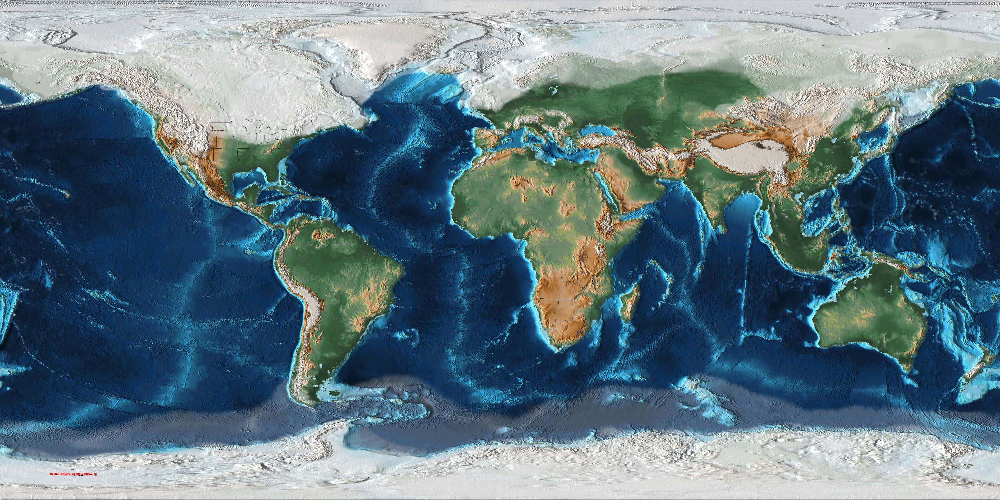
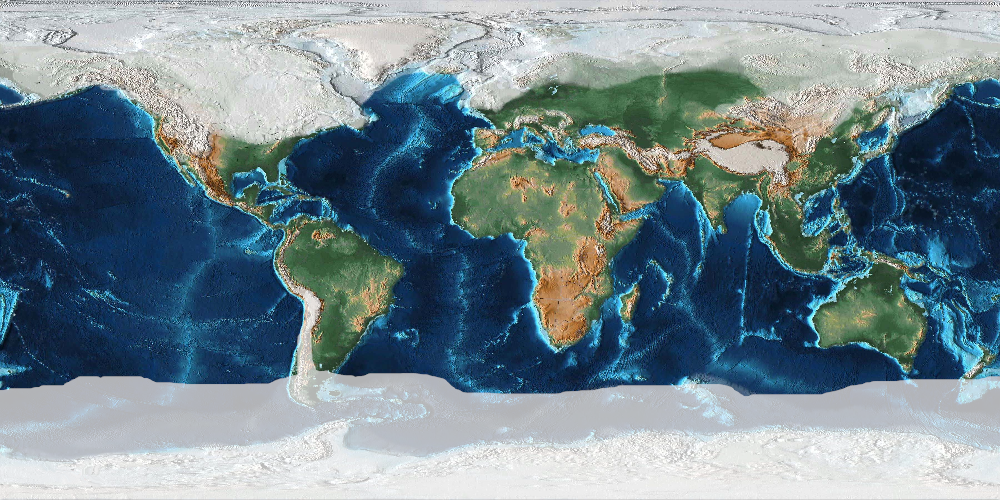
Carte de nuit, textures réelles, Karoo — point de sauvegarde avant refonte API/rendu
Travail en cours regroupé avant de commencer à déplacer des fichiers entre les deux dépôts.

Carte de nuit (🌙)
- alphabet : CHARS.NIGHTMAP '🌙' + description ; 🖼 devient « suite d'images » et non plus texture d'état.
- organigramme v1.0.116 : la carte de nuit est posée en emissiveMap avec un masque injecté dans le
  shader (smoothstep sur N·L) — jour et nuit affichés EN MÊME TEMPS, la nuit seulement côté ombre.
- fonds/_002000n.png ajouté, et au deploy.

Textures
- organigramme v1.0.115 + configOrganigramme v1.1.49 : TEXTURE_DATES_MA / _YEAR alignées sur les
  fichiers réellement présents dans fonds/. La texture affichée est la déclarée la plus proche de la
  date, donc plus de 404 sur un fichier inexistant. Images inutilisées retirées, deux recompressées.

Divers
- test_milankovitch v1.0.2 : footer et signature retirés (la page est en iframe, index.html a le sien).
- organigramme : détail albédo du Corps noir — surfaces optiques réelles (🪩) au lieu de la partition
  du stock d'eau, albédo de glace effectif, et la ligne « couche d'eau » du facteur corps-noir, sans
  quoi le détail affiché ne pouvait pas reproduire le badge.

Changed region(s): [[0.0, 0.6, 1.0, 1.0], [0.186, 0.24, 0.31, 0.33]]

diff --git a/organigramme/organigramme.js b/organigramme/organigramme.js
@@ -1,12 +1,14 @@
 // File: organigramme/organigramme.js - Génération automatique du diagramme de flux énergétique
 // Desc: Module JavaScript pour créer automatiquement un diagramme de flux énergétique à partir d'un graphe (nœuds et arcs)
-// Version 1.0.114
+// Version 1.0.116
 // © 2025 DNAvatar.org - Arnaud Maignan
 // Licensed under Apache License 2.0 with Commons Clause.
 // See https://commonsclause.com/ for full terms.
 // ¬Ā (/nʌl nʌl eɪ/) (/nɔ̃ a ma.kʁɔ̃/) : ¬¬Aristotelicisme via UTF8.
 // "La carte c'est le territoire, le territoire c'est le code."
 // UTF8 est la sémantique pour CODE & UI
+// Logs: v1.0.116 carte de nuit (📜🌙) en emissiveMap + masque shader (smoothstep sur N·L) : jour et nuit affichés EN MÊME TEMPS, la nuit seulement côté ombre.
+// Logs: v1.0.115 getPlanetTexturePathFromEpoch — texture DÉCLARÉE la plus proche de la date (plus de 404 sur un fichier inexistant) ; signe corrigé pour les époques géologiques.
 // Logs: v1.0.114 getPlanetTexturePathFromEpoch — texture d'ÉTAT (📜🖼, posée par 🕰.🔁) prioritaire sur la date.
 // Logs: v1.0.113 addCustomTooltip — data-alt2sec depuis window.EPOCH_ALT2SEC[data-epoch] (ex. Sturtienne / hysteresis 1a).
 // Logs: v1.0.112 getFineTuningDetailAlt — retrait suffixe #biblio_ref dans les lignes alt2sec.
@@ -626,6 +628,143 @@ function resolveFondsTextureUrlForLoader(path) {
 }
 
 /**
+ * MÉLANGE JOUR / NUIT (📜🌙, posé par la config 🕰.'🌙').
+ * La carte de nuit (lumières des villes) doit apparaître UNIQUEMENT sur la face non éclairée, en même temps
+ * que le jour — pas en alternance. On garde le MeshStandardMaterial (éclairage, ombres, cônes d'axe) et on
+ * pose la nuit en emissiveMap, masquée par l'orientation vers le Soleil via un patch de shader :
+ *   nuit = 1 quand la normale tourne le dos à la lumière, 0 en plein jour, dégradé doux au terminateur.
+ * Aucun matériau ni pipeline custom : la même sphère, une injection de quelques lignes.
+ */
+const _nightTextureCache = {};
+function loadNightTexture(path, onReady) {
+  if (_nightTextureCache[path]) { onReady(_nightTextureCache[path]); return; }
+  new THREE.TextureLoader().load(
+    resolveFondsTextureUrlForLoader(path),
+    function (tex) {
+      tex.wrapS = THREE.RepeatWrapping;
+      tex.wrapT = THREE.ClampToEdgeWrapping;
+      if (THREE.SRGBColorSpace) tex.colorSpace = THREE.SRGBColorSpace;
+      _nightTextureCache[path] = tex;
+      onReady(tex);
+    },
+    undefined,
+    function () { console.log("🌙 [texture nuit] chargement erreur:", path); }
+  );
+}
+
+/** Direction du Soleil (monde) pour le masque de nuit : position de la lumière directionnelle, normalisée. */
+function planetSunDirection(canvasData) {
+  const light = canvasData && canvasData.directionalLight;
+  const v = light && light.position
+    ? light.position.clone()
+    : new THREE.Vector3(1, 0, 1);
+  if (v.lengthSq() === 0) v.set(1, 0, 1);
+  return v.normalize();
+}
+
+/** Injecte le masque de nuit dans le shader standard (une fois par matériau). */
+function patchMaterialForNightMap(material, sunDir) {
+  if (material.userData.nightPatched) {
+    material.userData.sunDirUniform.value.copy(sunDir);
+    return;
+  }
+  material.userData.sunDirUniform = { value: sunDir.clone() };
+  material.onBeforeCompile = function (shader) {
+    shader.uniforms.uSunDirNight = material.userData.sunDirUniform;
+    shader.vertexShader = shader.vertexShader
+      .replace("#include <common>", "#include <common>\nvarying vec3 vWorldNormalNight;")
+      .replace(
+        "#include <begin_vertex>",
+        "#include <begin_vertex>\nvWorldNormalNight = normalize(mat3(modelMatrix) * objectNormal);"
+      );
+    shader.fragmentShader = shader.fragmentShader
+      .replace(
+        "#include <common>",
+        "#include <common>\nuniform vec3 uSunDirNight;\nvarying vec3 vWorldNormalNight;\nfloat nightMaskDN;"
+      )
+      // Masque calculé une fois : 1 côté nuit, 0 en plein jour, dégradé au terminateur.
+      // La carte de JOUR est assombrie côté nuit (sinon la lumière ambiante la laisse dominer et les
+      // lumières des villes ne ressortent pas) ; la carte de NUIT n'est émise que côté nuit.
+      .replace(
+        "#include <map_fragment>",
+        "#include <map_fragment>\n"
+        + "nightMaskDN = smoothstep(0.12, -0.18, dot(normalize(vWorldNormalNight), normalize(uSunDirNight)));\n"
+        + "diffuseColor.rgb *= mix(1.0, 0.15, nightMaskDN);"
+      )
+      .replace(
+        "#include <emissivemap_fragment>",
+        "#include <emissivemap_fragment>\ntotalEmissiveRadiance *= nightMaskDN;"
+      );
+  };
+  material.userData.nightPatched = true;
+  material.needsUpdate = true;
+}
+
+/**
+ * Applique (ou retire) la carte de nuit sur la sphère, selon 📜🌙. Appelée à la création de la sphère
+ * et à chaque mise à jour de texture — y compris quand la texture de jour ne change pas.
+ */
+function syncPlanetNightMap(sphere, canvasData) {
+  if (!sphere || !sphere.material) return;
+  const nightPath = window.DATA && window.DATA["📜"] ? window.DATA["📜"]["🌙"] : "";
+  const material = sphere.material;
+  if (typeof nightPath !== "string" || nightPath === "") {
+    if (material.emissiveMap) {
+      material.emissiveMap = null;
+      material.emissiveIntensity = 0;
+      material.needsUpdate = true;
+    }
+    return;
+  }
+  const sunDir = planetSunDirection(canvasData);
+  loadNightTexture(nightPath, function (tex) {
+    material.emissiveMap = tex;
+    material.emissive = new THREE.Color(0xffffff);
+    material.emissiveIntensity = 1.0;
+    patchMaterialForNightMap(material, sunDir);
+    material.needsUpdate = true;
+  });
+}
+
+/**
+ * Textures DÉCLARÉES (configOrganigramme.TEXTURES_THREEJS = inventaire réel du dossier fonds/), converties en
+ * année signée : Ma → −n×1e6 ; « _NNNNNNa » → +n (ère commune) ; « -NNNNNNa » → −n (avant J.-C. / BP).
+ * Source unique : la liste de config. Ajouter un fichier = l'ajouter là-bas, rien à toucher ici.
+ */
+let _fondsTextureIndexCache = null;
+function declaredFondsTextures() {
+  if (_fondsTextureIndexCache) return _fondsTextureIndexCache;
+  const list = window.configOrganigramme.TEXTURES_THREEJS;
+  const out = [];
+  for (let i = 0; i < list.length; i++) {
+    const p = list[i];
+    let m = /^fonds\/-([0-9]+)Ma\.png$/.exec(p);
+    if (m) { out.push({ year: -Number(m[1]) * 1e6, path: p }); continue; }
+    m = /^fonds\/([_-])([0-9]+)a\.png$/.exec(p);
+    if (m) { out.push({ year: (m[1] === "-" ? -1 : 1) * Number(m[2]), path: p }); }
+  }
+  _fondsTextureIndexCache = out;
+  return out;
+}
+
+/**
+ * Texture déclarée la plus proche d'une date (année signée). Distance RELATIVE (rapport de temps) :
+ * à −500 000 ans, 1 Ma est « plus proche » que 10 ka, ce qu'une distance absolue ne dirait pas.
+ * But : ne JAMAIS demander un fichier absent (avant : 2050 → fonds/_002050a.png → 404, texture figée).
+ */
+function nearestDeclaredFondsTexture(signedYear) {
+  const entries = declaredFondsTextures();
+  let best = null;
+  let bestScore = Infinity;
+  for (let i = 0; i < entries.length; i++) {
+    const e = entries[i];
+    const score = Math.abs(e.year - signedYear) / Math.max(1, Math.abs(e.year), Math.abs(signedYear));
+    if (score < bestScore) { bestScore = score; best = e; }
+  }
+  return best ? best.path : null;
+}
+
+/**
  * Chemin texture planète : préfère la date courante frise (▶/◀/infoTimeMa, forward vs géologique) comme updateTimeline.
  * Fallback : ancienne formule (startYears, infoTimeMa) si pas de contexte timeline.
  */
@@ -635,6 +774,19 @@ function getPlanetTexturePathFromEpoch(startYears, infoTimeMa) {
   // Générique : aucune époque n'est nommée ici, on lit ce que la config a posé.
   const stateTexture = window.DATA && window.DATA["📜"] ? window.DATA["📜"]["🖼"] : "";
   if (typeof stateTexture === "string" && stateTexture !== "") return stateTexture;
+
+  // Date courante en ANNÉE SIGNÉE (négatif = avant le présent) : les époques géologiques donnent des
+  // années AVANT PRÉSENT (positives en config), les époques récentes des années calendaires (🛖 🚂 📱).
+  // Sans cette distinction, 0,5 Ma avant le présent devenait « an 500000 » → fonds/_500000a.png (404).
+  const epochRow = window.getEpochAtTimelineIndex ? window.getEpochAtTimelineIndex() : null;
+  const cyRawSigned = window.getTimelineCurrentYears ? window.getTimelineCurrentYears() : null;
+  if (epochRow && cyRawSigned != null && Number.isFinite(Number(cyRawSigned))) {
+    const forward = Number(epochRow["▶"]) < Number(epochRow["◀"]);
+    const signedYear = forward ? Number(cyRawSigned) : -Number(cyRawSigned);
+    const nearest = nearestDeclaredFondsTexture(signedYear);
+    if (nearest) return nearest;
+  }
+
   let path;
   let signedYearHint = NaN;
   if (
@@ -1016,6 +1168,8 @@ function initPlanetThreeJS(
     const material = new THREE.MeshStandardMaterial(materialOptions);
 
     sphere = new THREE.Mesh(geometry, material);
+    // Carte de nuit (📜🌙) : superposée au jour, visible seulement côté nuit.
+    syncPlanetNightMap(sphere, canvas._threeJSData);
     sphere.castShadow = true;
     sphere.receiveShadow = false;
 
@@ -1450,6 +1604,8 @@ function updatePlanetTextureFromDate() {
   const startYears = epoch["▶"];
   const infoTimeMa = window.infoTimeMa;
   const path = getPlanetTexturePathFromEpoch(startYears, infoTimeMa);
+  // Carte de nuit d'abord : elle peut changer (ou disparaître) même quand la texture de jour reste la même.
+  syncPlanetNightMap(canvas._threeJSData.sphere, canvas._threeJSData);
   if (path === window._lastPlanetTexturePath) return;
   window._lastPlanetTexturePath = path;
   const sphere = canvas._threeJSData.sphere;
@@ -5612,9 +5768,16 @@ ORG.updateFluxLabels = function (eventId) {
       veilFrac > 1e-6
         ? `<span style="font-size:0.85em;opacity:0.92;" title="🍰⚽ obstruction (🍰🪩⚽ = 1−🍰⚽ transmission) — SW stratosphérique, hors CCN">⚽ ${(veilFrac * 100).toFixed(1)}% ciel voilé (SW)</span>`
         : "";
+    // Facteur corps-noir (🍰🪩💧) : A_geo est multiplié par couche_d_eau/10 m. Sans cette ligne, le détail
+    // ne se recompose pas — sur ⚫ les surfaces donnent ~78 % et le badge affiche 15 %.
+    const waterFactor = wAlb && Number.isFinite(wAlb["🍰🪩💧"]) ? wAlb["🍰🪩💧"] : 1;
+    const waterLine =
+      waterFactor < 0.999
+        ? `<span style="font-size:0.85em;opacity:0.92;" title="🍰🪩💧 facteur corps-noir : la couche d'eau globale ne fait pas 10 m, donc l'albédo des surfaces est réduit d'autant (une flaque de 2 m ne réfléchit pas comme une banquise).">💧 x${waterFactor.toFixed(2)} couche d'eau</span>`
+        : "";
     const cloudLine = cloudComp ? renderComp(cloudComp) : "";
     const cloudSection = [cloudLine, veilLine].filter(Boolean).join("<br>");
-    const groundLines = groundComps.map(renderComp).join("<br>");
+    const groundLines = [groundComps.map(renderComp).join("<br>"), waterLine].filter(Boolean).join("<br>");
     const separator =
       '<span style="display:block;border-top:1px solid rgba(255,255,255,0.35);margin:2px 0;"></span>';
     if (cloudSection && groundLines)
@@ -5634,10 +5797,12 @@ ORG.updateFluxLabels = function (eventId) {
   );
 
   if (hasNoAtmosphere) {
-    // Couvertures affichées = partition eau (🍰💧🧊), cohérente avec h2o v1.0.25 (cap ~10 %) — pas 🪩.🍰🪩🧊 (peut saturer à 100 %).
-    const ice_stock = DATA["💧"]["🍰💧🧊"];
-    const ice_cov_corps_noir = parseFloat((ice_stock * 100).toFixed(1));
-    const land_cov_corps_noir = parseFloat(((1 - ice_stock) * 100).toFixed(1));
+    // Couvertures affichées = les surfaces OPTIQUES réellement utilisées par calculateAlbedo (🪩.🍰🪩🧊 / 🍰🪩🌍).
+    // Avant (v1.0.93) on affichait la partition du STOCK d'eau (💧.🍰💧🧊) : le détail annonçait « glace 2,3 % × 0,70 »
+    // soit 1,6 %, pendant que le badge affichait 7,6 %. Les deux nombres étaient justes mais ne parlaient pas de la
+    // même chose. Le vrai chemin est : glace optique (100 %) × albédo de glace effectif × facteur corps-noir 🍰🪩💧.
+    const ice_cov_corps_noir = parseFloat((DATA["🪩"]["🍰🪩🧊"] * 100).toFixed(1));
+    const land_cov_corps_noir = parseFloat((DATA["🪩"]["🍰🪩🌍"] * 100).toFixed(1));
     const components = [
       {
         emoji: "🎾",
@@ -5660,9 +5825,12 @@ ORG.updateFluxLabels = function (eventId) {
         albedo: albedoCoeff["🪩🍰🏜"].toFixed(2),
       },
       {
+        // Albédo de glace EFFECTIF (moyenne zonale Briegleb) si le moteur l'a publié, sinon coefficient de config.
         emoji: CHARS.ICE,
         coverage: ice_cov_corps_noir,
-        albedo: albedoCoeff["🪩🍰🧊"].toFixed(2),
+        albedo: (Number.isFinite(DATA["🪩"]["🪩🍰🧊"])
+          ? DATA["🪩"]["🪩🍰🧊"]
+          : albedoCoeff["🪩🍰🧊"]).toFixed(2),
       },
       {
         emoji: CHARS.CLOUD,

diff --git a/organigramme/configOrganigramme.js b/organigramme/configOrganigramme.js
@@ -1,8 +1,9 @@
 // File: configOrganigramme.js - Configuration du diagramme de flux énergétique
 // Desc: Données de configuration (nœuds et arcs) pour le diagramme de flux énergétique
-// Version 1.1.48
+// Version 1.1.49
 // Date: [May 07, 2026] [12:00 UTC+1]
 // logs :
+// - v1.1.49: TEXTURE_DATES_MA / _YEAR alignées sur les fichiers RÉELLEMENT présents dans fonds/ (base du repli « texture la plus proche »).
 // - v1.1.48: TEXTURE_DATES_MA + 1 Ma (fonds/-00001Ma.png, état interglaciaire du Quaternaire).
 // - v1.1.47: epochName 💀 « Extinction permienne » (ex « Limite P/T », aligné CHARS_DESC).
 // - v1.1.46: getCurrentDateKey — Number(startYears) avant + info×1e6 (évite concat chaîne «-10000»+8000 pour ACTION / alignement texture).
@@ -82,10 +83,14 @@ function fondsTexturePathFromSignedYear(y) {
     const pref = yR < 0 ? "-" : "_";
     return "fonds/" + pref + p + "a.png";
 }
+// INVENTAIRE RÉEL du dossier fonds/ (v2026-09-18) : ces listes DOIVENT correspondre aux fichiers présents.
+// La texture affichée = la plus PROCHE de la date courante dans ces listes (organigramme.js), donc jamais de 404 :
+// une date sans image exacte (ex. 2050) retombe sur l'image la plus proche (2000). Ajouter un fichier = l'ajouter ici.
 // 2 et 1 Ma : les deux états stables du Quaternaire (glaciaire / interglaciaire), cf. 🕰.🔁 '🖼'.
-const TEXTURE_DATES_MA = [5000, 4500, 4100, 3700, 3300, 2900, 2500, 2300, 225, 150, 100, 200, 66, 50, 35, 33, 2, 1];
-/** Années signées (Holocène BP négatif, CE positif) — aligné getTimelineCurrentYears. */
-const TEXTURE_DATES_YEAR = [-10000, -6500, -3000, -2000, -1000, 1800, 2025];
+const TEXTURE_DATES_MA = [5000, 4900, 4800, 4700, 4600, 4500, 4400, 4300, 4200, 4100, 4000, 3500,
+    3000, 2500, 1910, 1320, 1000, 750, 720, 690, 600, 420, 280, 250, 150, 100, 66, 50, 35, 33, 17, 2, 1];
+/** Années signées (BP négatif, CE positif) — aligné getTimelineCurrentYears. */
+const TEXTURE_DATES_YEAR = [-10000, -6000, -5000, -3000, -2000, 1800, 2000];
 const TEXTURES_THREEJS = [
     ...TEXTURE_DATES_MA.map((ma) => "fonds/-" + String(ma).padStart(5, "0") + "Ma.png"),
     ...TEXTURE_DATES_YEAR.map((y) => fondsTexturePathFromSignedYear(y)),

diff --git a/static/compute/alphabet.js b/static/compute/alphabet.js
@@ -113,7 +113,8 @@ const CHARS = {
     MODERN: '📱',   // Aujourd'hui (2000–2100) : smartphone
     EVENTS: '🕰',   // Événements : horloge
     CYCLE: '🔁',    // Cycles : états successifs appliqués par tic (🕰.🔁, ex. glaciaire/interglaciaire)
-    TEXTURE: '🖼',  // Texture de la planète pour un état (🕰.🔁 '🖼')
+    TEXTURE: '🖼',  // Texture de la planète imposée (suite 🕰.🖼, parcourue par les tics)
+    NIGHTMAP: '🌙', // Carte de nuit superposée (🕰.🌙) : lumières des villes côté ombre
     OBLIQUITY: '⚾', // Obliquité ε de l'axe terrestre (degrés) — Milankovitch
     TRANSITION: '⏩', // Transition : flèche rapide
     DATE: '📅',     // Date : calendrier
@@ -235,7 +236,8 @@ const CHARS_DESC = {
     '📱': 'Aujourd\'hui',
     '🕰': 'Événements',
     '🔁': 'Cycles (états par tic)',
-    '🖼': 'Texture planète (état)',
+    '🖼': 'Texture planète (suite)',
+    '🌙': 'Carte de nuit (superposée)',
     '⚾': 'Obliquité ε (°)',
     '⏩': 'Transition',
     '📅': 'Date (Ma)',
@@ -270,7 +272,7 @@ function createAlphabetHtml() {
     
     // Colonne 4 : Événements
     const charsCol4 = [
-        'DATE', 'TIC_TIME', 'EVENTS', 'CYCLE', 'TEXTURE', 'OBLIQUITY', 'TRANSITION', 'BIG_IMPACT', 'METEORITE_COUNT', 'VOLCANO_VEIL', 'VOLCANO', 'FLUX_START', 'FLUX_END', 'PLANET_RADIUS', 'TROPOPAUSE', 'ALTITUDE', 'SATELLITE', 'INDEX_EPOCH'
+        'DATE', 'TIC_TIME', 'EVENTS', 'CYCLE', 'TEXTURE', 'NIGHTMAP', 'OBLIQUITY', 'TRANSITION', 'BIG_IMPACT', 'METEORITE_COUNT', 'VOLCANO_VEIL', 'VOLCANO', 'FLUX_START', 'FLUX_END', 'PLANET_RADIUS', 'TROPOPAUSE', 'ALTITUDE', 'SATELLITE', 'INDEX_EPOCH'
     ];
     
     // Colonne 5 : Époques et autres logos

diff --git a/html/test_milankovitch.html b/html/test_milankovitch.html
@@ -3,9 +3,11 @@
 # File: CO2/html/test_milankovitch.html
 # Desc: Cycles de Milankovitch (obliquité, excentricité, précession) — courbes + explication du couplage
 #       avec le bilan radiatif (API_BILAN/physics/physics.js : redistribution méridienne de l'insolation).
-# Version 1.0.1
+# Version 1.0.2
 # Date: [September 18, 2026]
 # Logs:
+# - v1.0.2: footer + signature DNAvatar retirés (page toujours chargée en iframe dans index.html, qui a
+#           déjà son propre footer avec signature sous les liens — comme les autres panneaux html/*.html).
 # - v1.0.1: sous-titre « utilisé au Quaternaire » + section « Comment l'obliquité agit dans la simulation » ;
 #           signature DNAvatar et en-tête de fichier ajoutés.
 # Copyright 2026 DNAvatar.org - Arnaud Maignan
@@ -373,9 +375,7 @@
         });
     </script>
 
-    <footer class="milankovitch-footer">
-        <script src="https://dnavatar.org/pages/logo-nonA/DNAvatar_signature.js"></script>
-    </footer>
+
 </body>
 </html>
 
